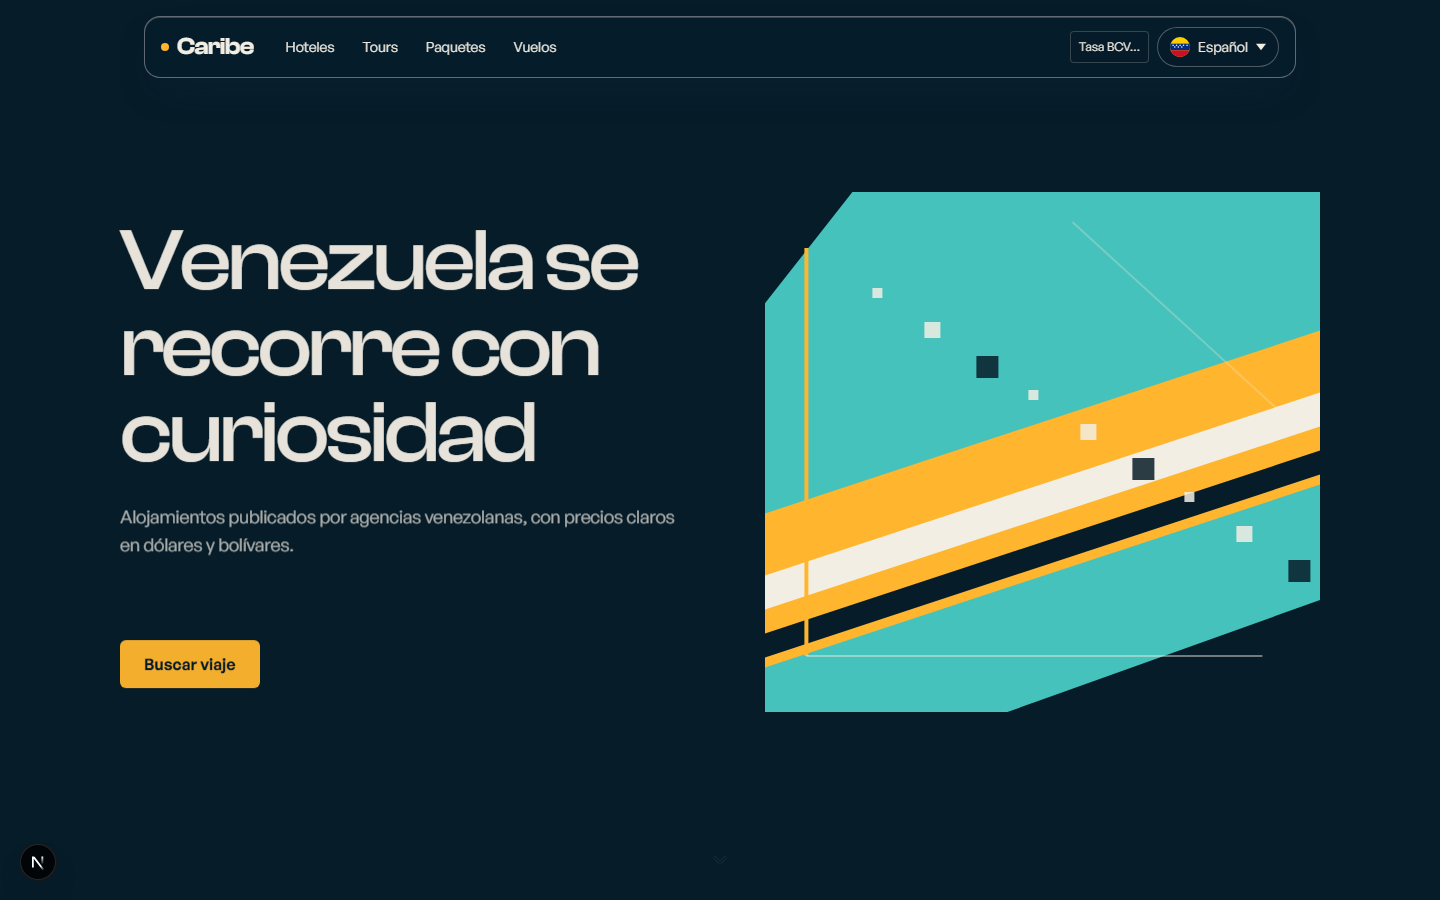
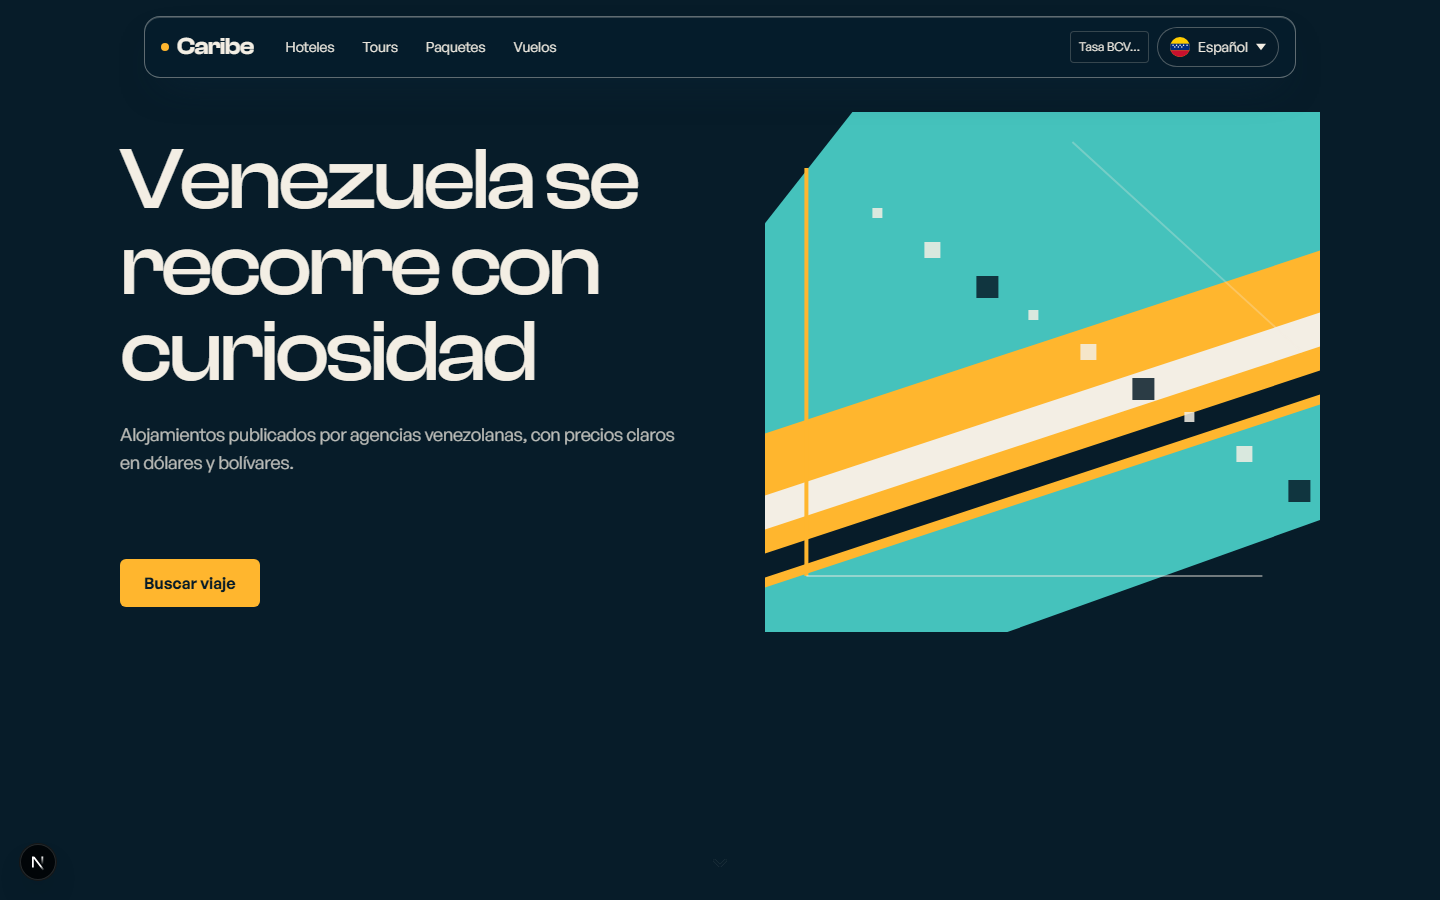
fix(web): bajar la flecha sin golpe, apilar el menú y ajustar el hero al viewport
La pulsación de la flecha usa una transición de translateY sin escala ni onda, con degradación a fondo estático bajo prefers-reduced-motion. El menú móvil apila los siete controles a ancho completo. El hero reserva espacio para la cabecera y se compacta en pantallas bajas para no tapar textos ni acciones.

Task: T-NAV-19

Task: T-NAV-20

Task: T-NAV-21

diff --git a/apps/web/src/app/globals.css b/apps/web/src/app/globals.css
@@ -85,10 +85,31 @@ body {
   scroll-margin-top: 7rem;
 }
 
+/* En pantallas bajas se compacta el contenido para que nada quede tapado. */
+@media (max-height: 700px) {
+  .hero-inner {
+    gap: 1rem;
+    padding-bottom: 2.5rem;
+  }
+
+  .hero-composition {
+    max-height: 7rem;
+  }
+
+  .search-stage {
+    padding-block: 2.5rem;
+  }
+
+  #destacados,
+  #cierre {
+    padding-block: 3rem;
+  }
+}
+
 /* Gesto de bajada: fijo al viewport y retirado del tabulado fuera de su sección. */
 .scroll-cue {
   --cue-y: 8px;
-  --cue-scale: 1;
+  --cue-press-y: 0px;
   position: fixed;
   inset-block-end: calc(1rem + env(safe-area-inset-bottom, 0px));
   inset-inline-start: 50%;
@@ -96,7 +117,7 @@ body {
   opacity: 0;
   visibility: hidden;
   pointer-events: none;
-  transform: translate(-50%, var(--cue-y)) scale(var(--cue-scale));
+  transform: translate(-50%, calc(var(--cue-y) + var(--cue-press-y)));
   transition:
     opacity var(--duration-cue) var(--ease-caribe),
     transform var(--duration-cue) var(--ease-caribe),
@@ -112,33 +133,8 @@ body {
 }
 
 .scroll-cue[data-pressed="true"] {
-  --cue-scale: 0.9;
-  background-color: color-mix(in srgb, currentColor 18%, transparent);
-}
-
-.scroll-cue::after {
-  content: "";
-  position: absolute;
-  inset: 0;
-  border: 1px solid currentColor;
-  border-radius: inherit;
-  opacity: 0;
-  pointer-events: none;
-}
-
-.scroll-cue[data-pressed="true"]::after {
-  animation: cue-press 450ms var(--ease-caribe);
-}
-
-@keyframes cue-press {
-  from {
-    opacity: 0.6;
-    transform: scale(0.8);
-  }
-  to {
-    opacity: 0;
-    transform: scale(1.4);
-  }
+  --cue-press-y: 6px;
+  background-color: color-mix(in srgb, currentColor 10%, transparent);
 }
 
 .scroll-cue-icon {
@@ -165,15 +161,15 @@ body {
 @media (prefers-reduced-motion: reduce) {
   .scroll-cue {
     --cue-y: 0px;
-    transform: translate(-50%, 0) scale(var(--cue-scale));
+    transform: translate(-50%, 0);
     transition: none;
   }
 
+  /* Igualdad de especificidad con el estado pulsado para anular el descenso. */
   .scroll-cue[data-pressed="true"] {
-    --cue-scale: 1;
+    --cue-press-y: 0px;
   }
 
-  .scroll-cue::after,
   .scroll-cue-icon {
     animation: none;
   }
@@ -342,6 +338,21 @@ body {
     visibility: visible;
     opacity: 1;
     transform: none;
+  }
+
+  /* Cada control del menú ocupa una fila completa, sin flex-wrap de escritorio. */
+  .site-products a,
+  .site-tools-actions > a,
+  .site-tools-actions > p,
+  .site-tools-actions > div {
+    width: 100%;
+  }
+
+  .site-tools-actions > div > a,
+  .site-tools-actions > div > button,
+  .site-tools-actions button[role="combobox"] {
+    width: 100%;
+    justify-content: flex-start;
   }
 }
 

diff --git a/apps/web/src/components/scroll-cue.tsx b/apps/web/src/components/scroll-cue.tsx
@@ -10,9 +10,10 @@ interface ScrollCueProps {
 }
 
 /**
- * Gesto de bajada siempre dentro del viewport. Muestra un estado pulsado
- * breve para que el salto de sección tenga respuesta visual incluso cuando el
- * desplazamiento es inmediato (movimiento reducido).
+ * Gesto de bajada siempre dentro del viewport. Al pulsarlo, el control baja de
+ * forma gradual y vuelve a subir, sin escalas ni impactos, para acompañar el
+ * desplazamiento suave hacia la sección (o el salto inmediato con movimiento
+ * reducido).
  */
 export function ScrollCue({ targetId, label, tone = "on-dark" }: ScrollCueProps) {
   const sentinel = useRef<HTMLSpanElement>(null);
@@ -41,7 +42,7 @@ export function ScrollCue({ targetId, label, tone = "on-dark" }: ScrollCueProps)
   function markPressed() {
     setPressed(true);
     if (timer.current !== null) window.clearTimeout(timer.current);
-    timer.current = window.setTimeout(() => setPressed(false), 450);
+    timer.current = window.setTimeout(() => setPressed(false), 620);
   }
 
   const colors =

diff --git a/apps/web/src/components/header-frame.tsx b/apps/web/src/components/header-frame.tsx
@@ -73,10 +73,15 @@ export function HeaderFrame({
           data-open={menuOpen ? "true" : "false"}
           className="site-tools flex w-full flex-col gap-3 border-t border-bone/15 pt-3 lg:w-auto lg:flex-1 lg:flex-row lg:items-center lg:justify-between lg:border-t-0 lg:pt-0"
         >
-          <nav aria-label={productsLabel} className="site-products flex flex-wrap items-center gap-1">
+          <nav
+            aria-label={productsLabel}
+            className="site-products flex flex-col items-stretch gap-1 lg:flex-row lg:items-center lg:gap-1"
+          >
             {products}
           </nav>
-          <div className="flex flex-wrap items-center gap-2">{tools}</div>
+          <div className="site-tools-actions flex flex-col items-stretch gap-2 lg:flex-row lg:items-center">
+            {tools}
+          </div>
         </div>
       </div>
     </header>

diff --git a/apps/web/src/app/[locale]/page.tsx b/apps/web/src/app/[locale]/page.tsx
@@ -39,8 +39,8 @@ export default async function HomePage({ params }: HomePageProps) {
 
   return (
     <div className="w-full">
-      <section className="relative min-h-dvh overflow-hidden bg-ink pt-20 text-bone">
-        <div className="mx-auto flex w-full max-w-7xl flex-col gap-8 px-5 pb-16 lg:grid lg:grid-cols-[1.05fr_0.95fr] lg:items-center lg:px-10 lg:pb-24 lg:pt-28">
+      <section className="hero-section relative min-h-dvh overflow-hidden bg-ink pt-28 text-bone">
+        <div className="hero-inner mx-auto flex w-full max-w-7xl flex-col gap-8 px-5 pb-16 lg:grid lg:grid-cols-[1.05fr_0.95fr] lg:items-center lg:px-10 lg:pb-24">
           <div className="order-1 max-w-2xl space-y-6 lg:col-start-1 lg:row-start-1">
             <h1 className="hero-enter max-w-3xl font-display text-display text-bone">
               {t("title")}

diff --git a/apps/web/test/visual-identity.test.ts b/apps/web/test/visual-identity.test.ts
@@ -46,12 +46,13 @@ describe("identidad visual Caribe", () => {
     expect(css).toContain("clip-path: none !important");
     expect(css).toContain("transform: none !important");
     expect(css).toMatch(/\.scroll-cue-icon\s*\{\s*animation: none;/);
-    // f1-navigation-refresh aprobó la entrada de portada y el gesto de flecha.
+    // f1-navigation-refresh aprobó la entrada de portada y el balanceo de flecha;
+    // la pulsación es una transición de bajada, no una animación de impacto.
     expect([...css.matchAll(/@keyframes\s+([\w-]+)/g)].map((match) => match[1])).toEqual([
-      "cue-press",
       "cue-nudge",
       "caribe-rise",
     ]);
+    expect(css).not.toContain("@keyframes cue-press");
   });
 
   it("comparte un ritmo suave y desactiva el movimiento de forma segura", () => {

diff --git a/apps/web/test/scroll-cue.test.ts b/apps/web/test/scroll-cue.test.ts
@@ -29,4 +29,15 @@ describe("gesto de bajada", () => {
     expect(cue).toContain("visibility: hidden");
     expect(cue).toContain("transition: none");
   });
+
+  it("baja suavemente al pulsarse, sin escalas ni ondas de impacto", () => {
+    const css = read("src/app/globals.css");
+    const cue = css.slice(css.indexOf(".scroll-cue"), css.indexOf(".search-glass"));
+    expect(cue).toContain("--cue-press-y: 0px");
+    expect(cue).toContain('data-pressed="true"');
+    expect(cue).toContain("translate(-50%, calc(var(--cue-y) + var(--cue-press-y)))");
+    expect(cue).toContain("transform var(--duration-cue) var(--ease-caribe)");
+    expect(cue).not.toContain("@keyframes cue-press");
+    expect(cue).not.toContain("scale(");
+  });
 });

diff --git a/apps/web/src/components/kinetic-composition.tsx b/apps/web/src/components/kinetic-composition.tsx
@@ -12,7 +12,7 @@ export function KineticComposition() {
   return (
     <div
       aria-hidden="true"
-      className="relative h-40 w-full overflow-hidden lg:h-[520px]"
+      className="hero-composition relative h-40 w-full overflow-hidden lg:h-[520px]"
       role="presentation"
     >
       <svg

diff --git a/openspec/changes/f1-navigation-refresh/verify.md b/openspec/changes/f1-navigation-refresh/verify.md
@@ -7,8 +7,10 @@
   navegación `b68ffdd` (T-NAV-1), `3e267c4` (T-NAV-2), `b58f7a8` (T-NAV-3), `05858eb` (T-NAV-4),
   `975d459` (T-NAV-12), `666e2e4` (T-NAV-5), `78dfd07` (T-NAV-13), `b3f205f` (T-NAV-6),
   `bfaf709` (T-NAV-7), `6c2cf49` (T-NAV-14), `bd43a8f` (T-NAV-15), `4649503` (T-NAV-16),
-  `d8be0ce` (T-NAV-8), `e8de458` (T-NAV-9), `a4285ec` (T-NAV-10), `abb7b0d` (T-NAV-17) y
-  `0dc11b4` (T-NAV-18). Los commits `b44ae72` y `9ac4623` actualizan la spec antes del código.
+  `d8be0ce` (T-NAV-8), `e8de458` (T-NAV-9), `a4285ec` (T-NAV-10), `abb7b0d` (T-NAV-17),
+  `0dc11b4` (T-NAV-18) y el ajuste de T-NAV-19/20/21 (flecha con descenso suave, menú móvil apilado
+  y contenido ajustado al viewport). Los commits `b44ae72` y `9ac4623` actualizan la spec antes del
+  código.
   `0bd9916` es el arreglo del lock de BullMQ acordado aparte: no cambia esta spec ni su comportamiento.
 - **Entorno:** web en `:3000` (`pnpm --filter @caribe/web dev`), API en `:3002`
   (`pnpm --filter @caribe/api dev`), PostgreSQL y Redis locales, datos de demostración sembrados y
@@ -24,7 +26,8 @@ Directorio: `docs/plans/screenshots/f1-navigation-refresh/`. Se generaron con
 | --- | --- | --- |
 | `header-desktop.png`, `header-mobile.png` (+ `-dark-`) | 1440x900 / 390x844 | Cabecera flotante con glass y borde |
 | `header-menu-desktop.png`, `header-menu-mobile.png` (+ `-dark-`) | 1440x900 / 390x844 | Menú hamburguesa abierto y opciones apiladas |
-| `home-desktop.png`, `home-mobile.png` (+ `-dark-`) | 1440x900 / 390x844 | Hero y flecha de bajada |
+| `home-desktop.png`, `home-mobile.png` (+ `-dark-`) | 1440x900 / 390x844 | Hero y flecha de bajada, sin solapamiento con la cabecera |
+| `home-arrow-pressed-desktop.png`, `home-arrow-pressed-mobile.png` (+ `-dark-`) | 1440x900 / 390x844 | Estado pulsado: descenso suave, sin escala ni onda |
 | `home-search-desktop.png`, `home-search-mobile.png` (+ `-dark-`) | 1440x900 / 390x844 | Buscador a 100vh sobre `kinetic-giro.svg` |
 | `home-reduced-motion-desktop.png` (+ `-dark-`) | 1440x900 | Todo visible sin animación |
 | `featured-desktop.png`, `featured-mobile.png` (+ `-dark-`) | 1440x900 / 390x844 | Tres destacados reales y «Próximamente» |
@@ -34,11 +37,11 @@ Directorio: `docs/plans/screenshots/f1-navigation-refresh/`. Se generaron con
 | `detail-desktop.png`, `detail-mobile.png` (+ `-dark-`) | 1440x900 / 390x844 | Detalle con fecha valor |
 | `checkout-desktop.png`, `checkout-mobile.png` (+ `-dark-`) | 1440x900 / 390x844 | Checkout con fecha valor |
 
-Revisión automatizada de las 46 imágenes: cabeceras PNG válidas leídas, dimensiones IHDR exactas
+Revisión automatizada de las 50 imágenes: cabeceras PNG válidas leídas, dimensiones IHDR exactas
 (1440x900 en escritorio, 390x844 en móvil, salvo las dos capturas de movimiento reducido, solo de
 escritorio) y ninguna imagen vacía o truncada. La geometría de la cabecera y de las flechas, el menú
-abierto, el estado pulsado y el contraste se comprobaron además en navegador real mediante los
-verificadores de la sección 3.
+abierto con siete ítems apilados a ancho completo, el estado pulsado y el contraste se comprobaron
+además en navegador real mediante los verificadores de la sección 3.
 
 **Limitación:** en esta sesión no hubo inspección humana de los píxeles; la revisión fue
 automatizada (DOM, geometría, estilos calculados, dimensiones y contraste). La valoración estética
@@ -74,9 +77,11 @@ final queda a criterio del dueño con las capturas adjuntas.
 | Enlaces de productos | El mismo verificador comprueba los cuatro `href` `/<locale>/search?type=hotel|tour|package|flight`; «tipos preseleccionados y categorías próximamente honestas». |
 | Acciones de la barra | El mismo verificador exige selector de idioma, badge BCV y enlace de acceso; ««Iniciar sesión» lleva al formulario real». |
 | Cabecera estrecha | `verify:navigation` a 360x640: barra con margen lateral y «icono de hamburgesa accesible»; `header-menu-mobile.png`. |
-| Menú vertical | `verify:navigation`: «menú móvil con hamburgesa y menú vertical» comprueba `aria-expanded`, `flex-direction: column` y apilamiento; icono de cruz en `globals.css`. |
+| Menú vertical | `verify:navigation`: «cabecera móvil con hamburgesa y 7 ítems apilados» comprueba `aria-expanded`, `flex-direction: column`, siete filas con `top` distinto y ancho mayor de 200px; icono de cruz en `globals.css`; `header-menu-mobile.png`. |
 | Borde de glass | El verificador de barra exige `border: 1px` y `box-shadow` con `inset`; `verify:contrast` en claro y oscuro. |
-| Pulsación de la flecha | `verify:navigation`: «flecha con estado pulsado y onda animada» y «salto inmediato con movimiento reducido» con estado pulsado visible y animaciones detenidas. |
+| Pulsación de la flecha | `verify:navigation`: «flecha con descenso suave al pulsar, sin golpe» comprueba `--cue-press-y: 6px` al pulsar, ausencia de `--cue-scale` y de `::after` con onda, y transición de `transform`; con movimiento reducido «salto inmediato» y `--cue-press-y: 0px` con el fondo visible. `test/scroll-cue.test.ts` › «baja suavemente al pulsarse, sin escalas ni ondas de impacto»; `home-arrow-pressed-*.png`. |
+| Hero sin solapamiento | `verify:navigation` a 390x844 y 360x640: «hero sin solapamiento y ancho útil respetado» comprueba que título y subtítulo empiezan bajo la barra, la CTA queda sobre la flecha, el hero no supera el viewport y el ancla compensa la cabecera. |
+| Secciones en pantalla baja | `verify:navigation` a 360x640 verifica los destinos de búsqueda, destacados y cierre; `globals.css` compacta espaciados y alturas con `@media (max-height: 700px)`. |
 | Flecha en móvil | `verify:navigation` a 360x640: «flecha de sección dentro del viewport» mide 48x48 y respeta `env(safe-area-inset-bottom)`. |
 | Texto normal y grande | `verify:contrast`: AA en 8 rutas x 2 esquemas; umbrales 4.5:1 y 3:1. |
 | CI | `.github/workflows/web-checks.yml` ejecuta `verify:navigation` y `verify:contrast` tras lint, typecheck, tests y build. |
@@ -91,11 +96,11 @@ final queda a criterio del dueño con las capturas adjuntas.
 | --- | --- |
 | `pnpm lint` | Verde: 4 tareas, 0 errores. |
 | `pnpm typecheck` | Verde: 5 tareas, 0 errores. |
-| `pnpm test` | Verde en todos los paquetes; web 16 archivos y 94 pruebas, API en caché. |
+| `pnpm test` | Verde en todos los paquetes; web 16 archivos y 95 pruebas, API en caché. |
 | `node scripts/check-specs.mjs` | `OK: 8 specs válidas`. |
-| `pnpm --filter @caribe/web verify:navigation` | Verde: 61 comprobaciones, 14 rutas en `es`/`en`, menú móvil, flechas y reservas. |
+| `pnpm --filter @caribe/web verify:navigation` | Verde: 63 comprobaciones, 14 rutas en `es`/`en`, menú móvil apilado, geometría del hero, flechas y reservas. |
 | `pnpm --filter @caribe/web verify:contrast` | Verde: «texto visible con contraste AA en claro y oscuro (8 rutas x 2 esquemas)». |
-| `pnpm --filter @caribe/web capture:screenshots ...` | Verde; 46 PNG válidos en claro y oscuro. |
+| `pnpm --filter @caribe/web capture:screenshots ...` | Verde; 50 PNG válidos en claro y oscuro. |
 
 No se añadieron tipos `any` ni directivas `@ts-ignore` o `eslint-disable` en el rango revisado.
 La única dependencia nueva es `@playwright/test` como `devDependency`, justificada en `design.md`
